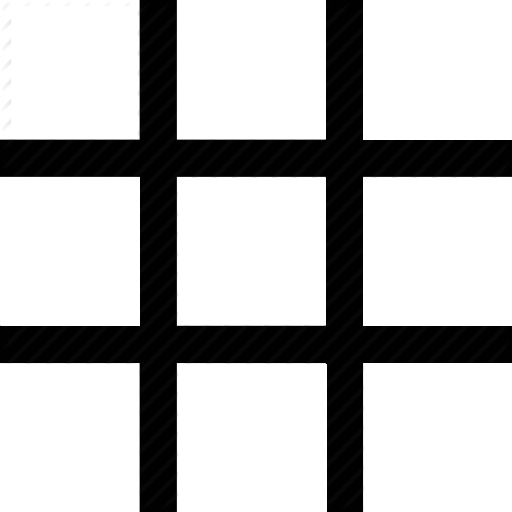
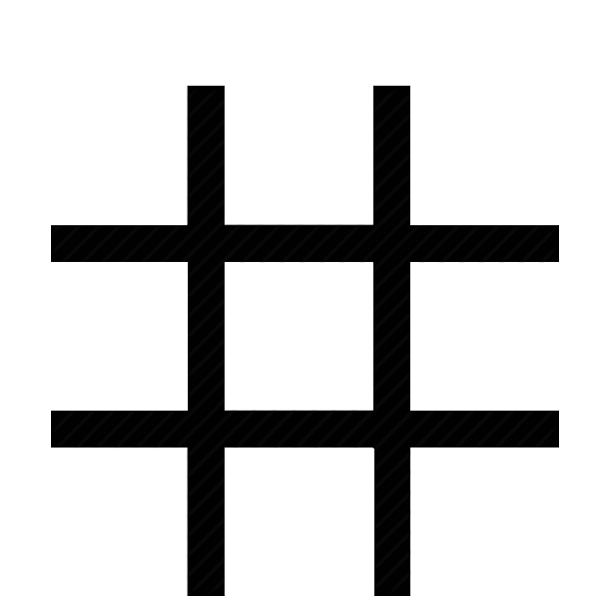
2

Changed region(s): [[0.0, 0.0, 1.0, 1.0]]

diff --git a/src/ru/home_work/feb_2014/Vlasyuk_Anton/lesson3/TicTacToe/GUI/Forms/F_Menu.java b/src/ru/home_work/feb_2014/Vlasyuk_Anton/lesson3/TicTacToe/GUI/Forms/F_Menu.java
@@ -5,14 +5,14 @@ import java.awt.*;
 
 
 
-public class F_Menu {
+public class F_Menu extends JPanel{
     static final int frameSize = 512;
     static String playerAI = "PlayerAI";
     static String playerHum = "GPlayerHuman";
 
-    public static void addComponentsToPane(Container pane) {
+    public   F_Menu() {
 
-        pane.setLayout(new GridBagLayout());
+        this.setLayout(new GridBagLayout());
         GridBagConstraints c = new GridBagConstraints();
         c.anchor = GridBagConstraints.NORTH;
         c.weightx = 0.0;
@@ -22,25 +22,25 @@ public class F_Menu {
         JLabel playerLabel_1 = new JLabel("Player 1");
         c.gridx = 0;
         c.gridy = 0;
-        pane.add(playerLabel_1, c);
+        this.add(playerLabel_1, c);
 
         JTextField playerTextField_1 = new JTextField(10);
         c.gridx = 1;
         c.gridy = 0;
         c.insets = new Insets(0, 5, 0, 0);
-        pane.add(playerTextField_1, c);
+        this.add(playerTextField_1, c);
 
         JLabel playerLabel_2 = new JLabel("Player 2");
         c.gridx = 0;
         c.gridy = 1;
         c.insets = new Insets(0,0,0,0);
-        pane.add(playerLabel_2, c);
+        this.add(playerLabel_2, c);
 
         JTextField playerTextField_2 = new JTextField(10);
         c.gridx = 1;
         c.gridy = 1;
         c.insets = new Insets(0, 5, 0, 0);
-        pane.add(playerTextField_2, c);
+        this.add(playerTextField_2, c);
 
 
         JRadioButton playerAIBut_1 = new JRadioButton(playerAI);
@@ -63,17 +63,17 @@ public class F_Menu {
 
         c.gridx = 2;
         c.gridy = 0;
-        pane.add(playerAIBut_1,c);
+        this.add(playerAIBut_1,c);
         c.gridx = 3;
         c.gridy = 0;
-        pane.add(playerHumanBut_1,c);
+        this.add(playerHumanBut_1,c);
 
         c.gridx = 2;
         c.gridy = 1;
-        pane.add(playerAIBut_2,c);
+        this.add(playerAIBut_2,c);
         c.gridx = 3;
         c.gridy = 1;
-        pane.add(playerHumanBut_2,c);
+        this.add(playerHumanBut_2,c);
 
         JButton startBut = new JButton("START");
         c.fill = GridBagConstraints.HORIZONTAL;
@@ -82,22 +82,11 @@ public class F_Menu {
         c.ipady = 40;
         c.gridwidth = 2;
         c.insets = new Insets(40, 5, 0, 0);
-        pane.add(startBut,c);
+        this.add(startBut,c);
     }
 
     public static void main(String[] args) {
-            // Создание окна
-            JFrame frame = new JFrame("GridBagLayoutDemo");
-            frame.setDefaultCloseOperation(JFrame.EXIT_ON_CLOSE);
 
-            // Установить панель содержания
-            addComponentsToPane(frame.getContentPane());
-
-
-
-            // Показать окно
-            frame.setSize(frameSize + 25, frameSize + 75);
-            frame.setVisible(true);
         }
     }
 

diff --git a/src/ru/home_work/feb_2014/Vlasyuk_Anton/lesson3/TicTacToe/GUI/GGame.java b/src/ru/home_work/feb_2014/Vlasyuk_Anton/lesson3/TicTacToe/GUI/GGame.java
@@ -2,6 +2,7 @@ package ru.home_work.feb_2014.Vlasyuk_Anton.lesson3.TicTacToe.GUI;
 
 
 import ru.home_work.feb_2014.Vlasyuk_Anton.lesson3.TicTacToe.GUI.Forms.F_Game;
+import ru.home_work.feb_2014.Vlasyuk_Anton.lesson3.TicTacToe.GUI.Forms.F_Menu;
 import ru.home_work.feb_2014.Vlasyuk_Anton.lesson3.TicTacToe.model.CurPlayer;
 import ru.home_work.feb_2014.Vlasyuk_Anton.lesson3.TicTacToe.model.*;
 
@@ -32,21 +33,32 @@ public class GGame  implements GPlayerHumanInterface, Runnable {
         curPlayer = new CurPlayer(player1, player2);
         gameThread = new Thread(this);
         JFrame frame = new JFrame("TicTacToe");
-        frame.setSize(gField.Size() + 25, gField.Size() + 75);
-        JButton but = new JButton("Button1");
-        JButton but2 = new JButton("Button2");
-        JLabel lab = new JLabel("Label 1");
-        JPanel pan = new JPanel();
-        pan.add(but);
-        pan.add(lab);
+        frame.setSize(gField.Size() + 25, gField.Size() + 30);
+
 //        initialization();
-        frame.getContentPane().add(gField);
-        frame.getContentPane().add(new BorderLayout().NORTH, pan);
-        frame.getContentPane().add(new BorderLayout().SOUTH,but2 );
+//        frame.getContentPane().add(gField);
+//        frame.getContentPane().add(new BorderLayout().NORTH, pan);
+//        frame.getContentPane().add(new BorderLayout().SOUTH,but2 );
+        JLabel label = new JLabel("Label1");
+        label.setHorizontalAlignment(JLabel.CENTER);
+        label.setVerticalAlignment(JLabel.CENTER);
+        label.setSize(612, 30);
+
+        gField.add(label);
+        cards = new JPanel(new CardLayout());
+        cards.add(gField, "Game");
+        cards.add(new F_Menu(), "Menu");
+
+
+        frame.getContentPane().add(cards);
+
+
 
         frame.setLocationRelativeTo(null);
         frame.setDefaultCloseOperation(JFrame.EXIT_ON_CLOSE);
         frame.setVisible(true);
+
+
 
 
     }

diff --git a/src/ru/home_work/feb_2014/Vlasyuk_Anton/lesson3/TicTacToe/GUI/Forms/F_Game.java b/src/ru/home_work/feb_2014/Vlasyuk_Anton/lesson3/TicTacToe/GUI/Forms/F_Game.java
@@ -12,14 +12,18 @@ public class F_Game {
 
 
     static int frameSize = 512;
-
-
-
-
     public static void addComponentsToPane(Container pane, GField gField){
-        JButton but = new JButton("Button 1");
-        gField.add(but);
+        JButton but = new JButton("Button1");
+        JButton but2 = new JButton("Button2");
+        JLabel lab = new JLabel("Label 1");
+        JPanel pan = new JPanel();
+        pan.add(but);
+        pan.add(lab);
+
         pane.add(gField);
+        pane.add(new BorderLayout().NORTH, pan);
+        pane.add(new BorderLayout().SOUTH, but2);
+
 
 
     }

diff --git a/src/ru/home_work/feb_2014/Vlasyuk_Anton/lesson3/TicTacToe/GUI/GField.java b/src/ru/home_work/feb_2014/Vlasyuk_Anton/lesson3/TicTacToe/GUI/GField.java
@@ -8,7 +8,7 @@ import ru.home_work.feb_2014.Vlasyuk_Anton.lesson3.TicTacToe.model.Cell;
 
 public class GField extends JComponent {
     private final static int FIELD_SIZE = 3;
-    private final static int SIZE = 512;
+    private final static int SIZE = 612;
     private URL imgFileName = getClass().getResource("/res/field.png");
     private Image img = Toolkit.getDefaultToolkit().getImage(imgFileName);
     private Field field;
